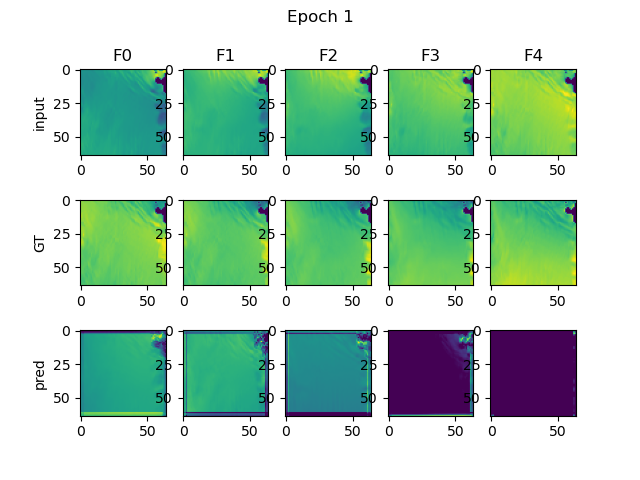
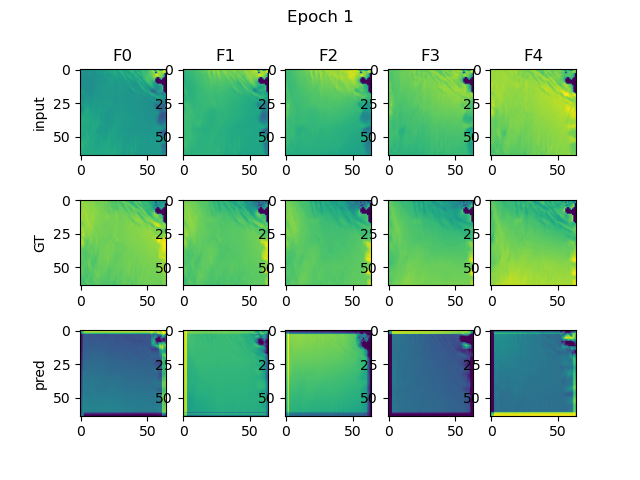
model load

Changed region(s): [[0.125, 0.6875, 0.9062, 0.875]]

diff --git a/gan/gan_logger.py b/gan/gan_logger.py
@@ -3,7 +3,7 @@ import torch as t
 import json
 import csv
 import os
-
+import ipdb
 
 class GANLogger(LightningLoggerBase):
     def __init__(
@@ -14,6 +14,7 @@ class GANLogger(LightningLoggerBase):
         super().__init__()
         self.csv_path = os.path.join(loggin_path, "training_log.csv")
         self.last_train_mse_loss = -1.0
+        self.test_metrics = {}
         with open(self.csv_path, "w") as f:
             writer = csv.writer(f)
             writer.writerow(train_header)
@@ -27,6 +28,9 @@ class GANLogger(LightningLoggerBase):
                 writer.writerow(
                     (metrics["epoch"], self.last_train_mse_loss, metrics["val_mse"])
                 )
+        else:
+            self.test_metrics.update(metrics)
+            ipdb.set_trace()
 
     @property
     def name(self):

diff --git a/gan/run.py b/gan/run.py
@@ -51,10 +51,14 @@ def run():
         ],
     )
     data_module = DeepCoastalDataModule(params)
+    model_path = os.path.join(save_path, "model.pt")
     if params.action == "train":
         trainer.fit(model=model, datamodule=data_module)
-        t.save(model.state_dict(), os.path.join(save_path, "model.pt"))
+        t.save(model.state_dict(), model_path)
 
+    if os.path.exists(model_path):
+        print(f"\nLoading model from '{model_path}'\n")
+        model.load_state_dict(t.load(model_path))
     trainer.test(model=model, datamodule=data_module)
      
 if __name__ == "__main__":
